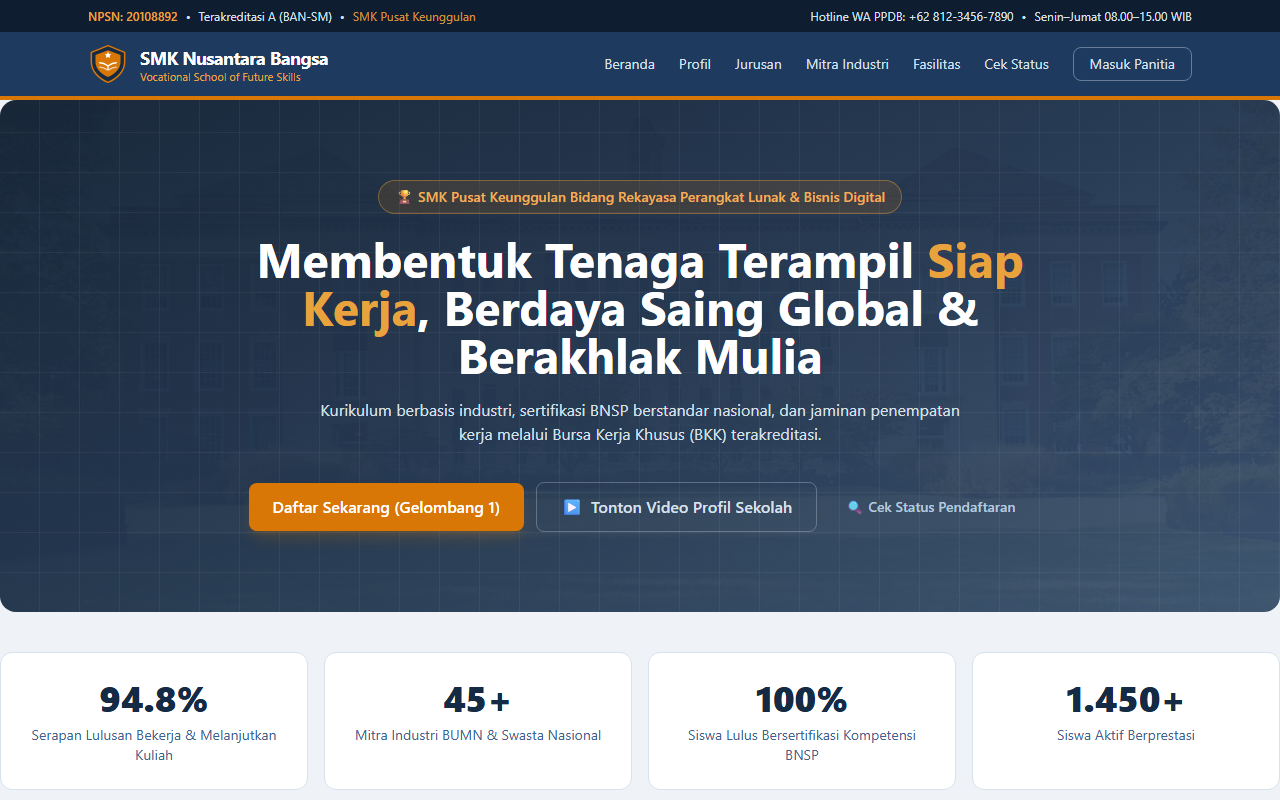
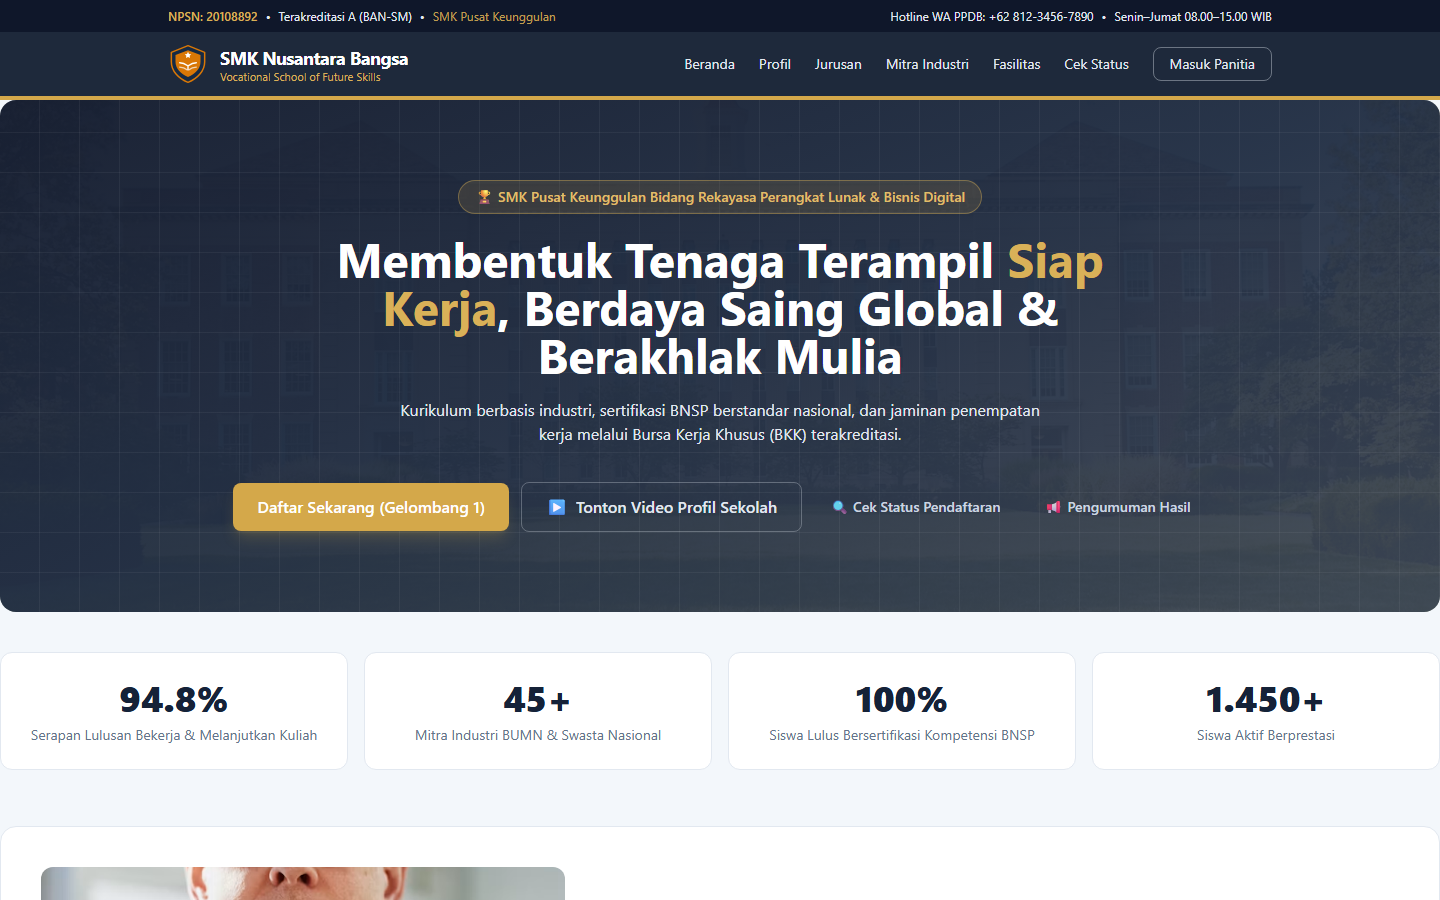
feat: update entri proyek PPDB SMK Nusantara — deskripsi fitur lengkap (akademik, SPP, e-learning, dashboard kepala) + screenshot landing & login terbaru

diff --git a/data_en.php b/data_en.php
@@ -48,21 +48,23 @@ $projects = [
         'image'    => 'assets/ppdb-home-preview.png',
         'initial'  => 'PPDB SMK',
         'github'   => 'https://github.com/ReyDel6/ppdb-sekolah-web',
-        'desc'     => 'An <strong>Online Student Admission (PPDB)</strong> system for SMK Nusantara Bangsa — an <strong>Uji Kompetensi Keahlian (UJK/UKK RPL)</strong> project. Handles prospective student registration through a multi-step form with document upload, a public status-check portal with QR-bearing participant card printing, a multi-role admin dashboard, and Excel report export.',
+        'desc'     => 'An <strong>Online Student Admission (PPDB)</strong> and <strong>school academic management</strong> system for SMK Nusantara Bangsa — an <strong>Uji Kompetensi Keahlian (UJK/UKK RPL)</strong> project. Handles prospective student registration through a multi-step form with document upload, admission waves & major quotas, verification up to re-registration, a public status-check portal with QR-bearing participant card printing, a multi-role dashboard, plus academic modules (attendance, grades, schedules), SPP tuition, e-learning & e-library with Excel/PDF report exports.',
         'points'   => [
-            '<strong>Multi-role & authentication</strong> — Admin, Committee (Panitia), and Student (Laravel Breeze + role middleware).',
-            '<strong>Step-by-step registration</strong> — 4 steps: personal data, major selection, parent data, document upload (photo, family card, diploma) & preview.',
+            '<strong>Multi-role & authentication</strong> — 6 roles: Admin, Committee (Panitia), Teacher, Student, Parent, and School Principal (Laravel Breeze + role middleware).',
+            '<strong>Step-by-step registration</strong> — personal data, major selection, parent data, document upload (photo, family card, diploma) & preview; admission waves & per-major quotas.',
             '<strong>Public status portal</strong> — real-time registration status & participant card printing with QR Code.',
-            '<strong>Analytics dashboard</strong> — quota per major, accepted/reserve/rejected percentages, Chart.js charts.',
-            '<strong>Report export</strong> — download applicant recap as Excel (Laravel Excel).',
-            '<strong>School branding landing page</strong> — NPSN, accreditation, industry partners (DUDI), RPL/TKJ/AKL majors, & navy-gold navigation.',
+            '<strong>Analytics & principal dashboard</strong> — quota per major, accepted/reserve/rejected percentages, charts (Chart.js), PPDB/curriculum/staff statistics.',
+            '<strong>Academic management</strong> — classes, subjects, teachers, students & schedules; attendance (Present/Late/Permit/Sick/Absent); grading & report cards.',
+            '<strong>Report & report card export</strong> — applicant, grade & attendance recaps in Excel and PDF (Dompdf).',
+            '<strong>SPP tuition</strong> — per-class fees, monthly bill generation & payments (Cash/Transfer/Online) via admin and student/parent portals.',
+            '<strong>E-learning & e-library</strong> — materials, assignments, class forum; book catalog & borrowing.',
         ],
         'tech'     => [
-            'Backend: Laravel (PHP)',
-            'Frontend: Blade + Vite, Tailwind CSS',
-            'Database: MySQL',
-            'Reports: Laravel Excel',
+            'Backend: Laravel (PHP) + MySQL',
+            'Frontend: Blade + Vite, Tailwind CSS, Alpine.js',
+            'Reports: Laravel Excel + Dompdf (PDF)',
             'QR Code: qrcodejs',
+            'Charts: Chart.js',
         ],
         'previews' => [
             ['file' => 'assets/ppdb-home-preview.png', 'label' => 'Landing Page'],

diff --git a/data_id.php b/data_id.php
@@ -47,21 +47,23 @@ $projects = [
         'image'    => 'assets/ppdb-home-preview.png',
         'initial'  => 'PPDB SMK',
         'github'   => 'https://github.com/ReyDel6/ppdb-sekolah-web',
-        'desc'     => 'Sistem <strong>PPDB Online</strong> SMK Nusantara Bangsa — proyek <strong>Uji Kompetensi Keahlian (UJK/UKK RPL)</strong>. Mengelola pendaftaran calon siswa lewat form bertahap dengan unggah berkas, portal cek status & cetak kartu peserta ber-QR, dashboard admin multi-role, hingga ekspor laporan Excel.',
+        'desc'     => 'Sistem <strong>PPDB Online</strong> dan <strong>manajemen akademik sekolah</strong> SMK Nusantara Bangsa — proyek <strong>Uji Kompetensi Keahlian (UJK/UKK RPL)</strong>. Mengelola pendaftaran calon siswa lewat form bertahap dengan unggah berkas, gelombang & kuota jurusan, verifikasi hingga daftar ulang, portal cek status & cetak kartu peserta ber-QR, dashboard multi-role, plus modul akademik (absensi, nilai, jadwal), keuangan SPP, e-learning & e-library dengan ekspor rekap/rapor Excel dan PDF.',
         'points'   => [
-            '<strong>Multi-role & autentikasi</strong> — Admin, Panitia, dan Siswa (Laravel Breeze + middleware role).',
-            '<strong>Pendaftaran bertahap</strong> — 4 langkah: data diri, pilihan jurusan, data orang tua, unggah berkas (pas foto, KK, ijazah) & pratinjau.',
+            '<strong>Multi-role & autentikasi</strong> — 6 peran: Admin, Panitia, Guru, Siswa, Orang Tua, dan Kepala Sekolah (Laravel Breeze + middleware role).',
+            '<strong>Pendaftaran bertahap</strong> — data diri, pilihan jurusan, data orang tua, unggah berkas (pas foto, KK, ijazah) & pratinjau; dukungan gelombang & kuota per jurusan.',
             '<strong>Portal cek status publik</strong> — pantau status pendaftaran real-time & cetak kartu peserta dengan QR Code.',
-            '<strong>Dashboard analitik</strong> — kuota per jurusan, persentase diterima/cadangan/tolak, grafik dengan Chart.js.',
-            '<strong>Ekspor laporan</strong> — unduh rekap pendaftar dalam format Excel (Laravel Excel).',
-            '<strong>Landing page branding sekolah</strong> — NPSN, akreditasi, mitra industri (DUDI), jurusan RPL/TKJ/AKL, & navigasi navy-gold.',
+            '<strong>Dashboard analitik & kepala sekolah</strong> — kuota per jurusan, persentase diterima/cadangan/tolak, grafik (Chart.js), statistik PPDB, kurikulum & kepegawaian.',
+            '<strong>Manajemen akademik</strong> — kelas, mata pelajaran, guru, siswa & jadwal; absensi (Hadir/Izin/Sakit/Alpha/Terlambat); penilaian & rapor.',
+            '<strong>Ekspor rekap & rapor</strong> — rekap pendaftar, nilai & absensi dalam Excel dan PDF (Dompdf).',
+            '<strong>Keuangan SPP</strong> — tarif per kelas, generate tagihan bulanan & pembayaran (Tunai/Transfer/Online) lewat admin dan portal siswa/orang tua.',
+            '<strong>E-learning & e-library</strong> — materi, tugas, forum kelas; katalog buku & peminjaman.',
         ],
         'tech'     => [
-            'Backend: Laravel (PHP)',
-            'Frontend: Blade + Vite, Tailwind CSS',
-            'Database: MySQL',
-            'Laporan: Laravel Excel',
+            'Backend: Laravel (PHP) + MySQL',
+            'Frontend: Blade + Vite, Tailwind CSS, Alpine.js',
+            'Laporan: Laravel Excel + Dompdf (PDF)',
             'QR Code: qrcodejs',
+            'Grafik: Chart.js',
         ],
         'previews' => [
             ['file' => 'assets/ppdb-home-preview.png', 'label' => 'Landing Page'],
